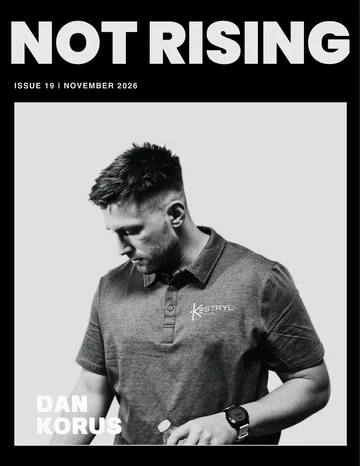
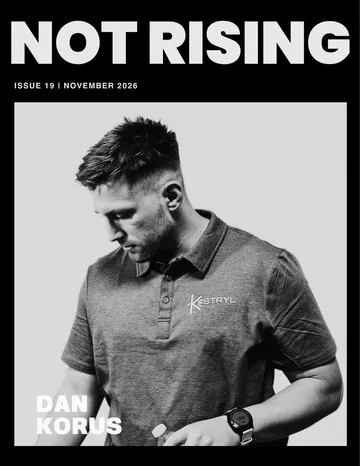
Newsstand: Issue 19 (Dan Korus) teaser flipbook + updated cover
Issue 19 now opens as a flipbook in Issue 01's format: an 11-page teaser ending on the Full digital issue release page (December 19, 2026) with Read the feature online linking to thisisnotrising.org/2026/11/08/dan-korus/. On Dec 19 the full 30-page issue opens by itself (?full proofs it early).

- assets/data.js: Dan's feature line gets its url and issue key (the coming-soon marquee comes off); ISSUES["dan-korus"] holds the magazine; IMAGES lists its nine pictures
- assets/img: new Issue 19 cover (+ rack thumbnail) and nine pictures from the feature's photos
- index.html, newsstand/index.html: data.js version tag bumped so browsers fetch the new file
- tools/issue19-images.py: how the pictures were cropped

Claude-Session: https://claude.ai/code/session_018yMsHoo7YjHd4jfcV23KKY

Changed region(s): [[0.0917, 0.2403, 0.9778, 0.9614]]

diff --git a/assets/data.js b/assets/data.js
@@ -54,7 +54,17 @@ window.NR = {
     coverPhoto01: "issue01-cover-photo.webp",
     tocPortrait01: "issue01-toc-portrait.webp",
     arch01: "issue01-arch.webp",
-    stage01: "issue01-stage.webp"
+    stage01: "issue01-stage.webp",
+    // Issue 19 · Dan Korus: his magazine's pictures (made from the feature's photos by tools/issue19-images.py)
+    portrait19: "issue19-portrait.webp",      // opener portrait
+    name19: "issue19-name.webp",              // name page (in colour, like Issue 01's)
+    tocDog19: "issue19-toc-dog.webp",         // contents page, small photos
+    tocRun19: "issue19-toc-run.webp",
+    tocLaugh19: "issue19-toc-laugh.webp",
+    camp19: "issue19-camp.webp",              // Q1 photo page (under 700 px wide on purpose: it sits framed, whole, on black)
+    couple19: "issue19-couple.webp",          // Q2 photo page
+    workshop19: "issue19-workshop.webp",      // Q4 photo page (stacked name + photo)
+    dog19: "issue19-dog.webp"                 // Q6 photo page
   },
 
   /* Tabs on the rack. A tab only appears once it holds an issue. */
@@ -127,10 +137,10 @@ window.NR = {
     { name: "Rebecca Wicker", date: "2026-09-27", url: "https://thisisnotrising.org/2026/09/27/thestrategiclinguist/", cover: "cover16" },
     { name: "Marlana", date: "2026-10-11", url: "https://thisisnotrising.org/2026/10/11/marlana/", cover: "cover17" },
     { name: "Pragya", date: "2026-10-25", url: "https://thisisnotrising.org/2026/10/25/pragya/", cover: "cover18" },
-    /* "soon" = this issue's own marquee text (one line per \n), used instead of the
-       automatic "Coming December 19". Add url: "..." once the feature is live.
-       read: false = no READ ONLINE button on its marquee (delete it once the feature is live). */
-    { name: "Dan Korus", date: "2026-11-08", cover: "cover19", soon: "Dan Korus : Issue 19\nArrives in one week", read: false }
+    /* A cover with no "issue" yet shows a "coming soon" marquee instead of a magazine. Its options:
+       soon: "..." = that marquee's own text (one line per \n), used instead of the automatic "Coming December 19";
+       read: false = no READ ONLINE button on it. Both can go once the magazine ("issue") is filled in. */
+    { name: "Dan Korus", date: "2026-11-08", url: "https://thisisnotrising.org/2026/11/08/dan-korus/", cover: "cover19", issue: "dan-korus" }
   ],
 
   /* One magazine per issue. Each question can pick its layout:
@@ -215,6 +225,150 @@ window.NR = {
       kind: "pages", title: "To Be Human · Holiday Special · Episode 1",
       pageDir: "tbh-holiday/", pageCount: 32, pageExt: "webp", back: "memoir02Back",
       insideFront: false, insideBack: false
+    },
+
+    /* Issue 19 · Dan Korus (Nov 7). Built exactly like Issue 01: same page templates, same 11-page preview.
+       Text from the feature on thisisnotrising.org (goes live Nov 8, 11:11 am); photos from the same post.
+       The preview ends on December 19, matching RELEASE_MONTH (Issue 19 -> December 19); on that day the
+       whole issue opens by itself. Add ?full to the Newsstand address to proof the whole issue before then. */
+    "dan-korus": {
+      number: 19, year: 2026,
+      preview: { pages: 11, until: "2026-12-19" },
+      name: "Dan Korus", publication: "The Updraft",
+      photoCredit: "Dan Korus",
+      nameRows: ["DAN", "KO", "RUS"],
+      portrait: "portrait19", namePhoto: "name19",
+      pullQuote: "“I want fewer people spending their evenings recovering from how they were treated at work.”",
+      toc: [
+        { q: 1, x: 67, y: 182, w: 205 },
+        { img: "tocRun19", x: 537, y: 229, w: 187, h: 156 },
+        { q: 5, x: 302, y: 293, w: 225 },
+        { img: "tocDog19", x: 67, y: 448, w: 173, h: 170 },
+        { q: 8, x: 533, y: 488, w: 200 },
+        { q: 7, x: 302, y: 628, w: 230 },
+        { q: 3, x: 67, y: 737, w: 210 },
+        { img: "tocLaugh19", x: 532, y: 780, w: 188, h: 111 }
+      ],
+      sections: [
+        { n: "1", q: "Tell us about you.",
+          contPull: "“The fastest way to give others permission to be themselves is to be outrageously yourself first.”", blocks: [
+          ["p", "I’m from Washington. The Pacific Northwest. Land of trees, strong coffee, and kinda-dirty smiling people in Birkenstocks who have opinions about the right way to compost."],
+          ["p", "My favorite childhood memories are from the mountains. I learned to love endurance sports through nordic ski racing on Mt. Spokane. On Friday nights we’d carpool up after school to train. No headlamps was the rule. We skied by the moon and stars."],
+          ["p", "I had a hard time reading growing up. I couldn’t sit still. Sports taught me more than the classroom ever did, and that’s still how I teach."],
+          ["p", "The mountains are still where I go to play. These days it’s trail running in the Jemez Mountains around my home in New Mexico. If you’ve seen my dorky attempts at filming leadership videos while running, you’ve seen some of my favorite places."],
+          ["p", "One of my first jobs was as a camp counselor. It’s still the most fun I’ve ever had at work."],
+          ["p", "I learned how to help kids get along, get a shy camper to open up, and defuse a fight so they could go back to being friends. I also got to be goofy. A muscular guy in a dress, being ridiculous and genuine, on purpose."],
+          ["p", "The fastest way to give others permission to be themselves is to be outrageously yourself first."],
+          ["p", "Teach ’em young: Know your emotions, take responsibility for how you act, and do cool shit for others."],
+          ["p", "We’d raid the candy store in silly costumes, serious as can be, then take our sugary haul to a field to stargaze and laugh. The next day, still in costume, we’d build massive floating wooden structures and set them on fire with flaming arrows."],
+          ["p", "Many of those campers became counselors themselves. They still write to me about the costumes, the candy raids, and the nights under the stars."],
+          ["p", "I know what leadership looks like. I learned it at summer camp."],
+          ["photoPage", "camp19"],
+          ["p", "I went on to earn my master’s in chemistry and work in startups and government. I met my best friend along the way and settled in New Mexico. Sunshine, green chile, and the beauty of the wide open."],
+          ["p", "Today I run Kestryl Edge, where I teach leadership and emotional intelligence to the people who run high consequence, mission-oriented teams. Places where how you treat people is an operational variable."],
+          ["p", "I’m a husband. A dog walker. A runner. A coach. A scientist. Someone with a good bit to say about leadership. And a camp counselor, still."]
+        ]},
+        { n: "2", q: "What drives you? What gives you energy?",
+          layout: "reading", pull: "“Things could be better, and therefore they shall.”", blocks: [
+          ["photoPage", "couple19", "02 · Rich in life", "“My wife. My dogs. My cat. I’m rich in life.”"],
+          ["p", "My unreasonably strong sense of justice."],
+          ["p", "Things could be better, and therefore they shall."],
+          ["p", "I lived the problem, then I saw the problem, and the fact that it still exists is reason enough."],
+          ["p", "What gives me energy is simpler. My wife. My dogs. My cat. I’m rich in life."],
+          ["p", "And when you already have everything money can’t buy, all that’s left is to make a difference for the people around you."]
+        ]},
+        { n: "3", q: "In one sentence, what are you trying to change?", layout: "statement", blocks: [
+          ["quote", "I want fewer people spending their evenings recovering from how they were treated at work."]
+        ]},
+        { n: "4", q: "What did you notice was broken that made you start writing?", layout: "band-bottom",
+          pull: "“We give people advice about managing their reactions to poor leadership while letting the people responsible carry on.”", blocks: [
+          ["photoPage", "workshop19", "", "", "stack"],
+          ["p", "“You should read The Four Agreements.”"],
+          ["p", "I had just shown a CEO the red lines I’d made in one of his emails. Threats underlined, rudeness circled. I told him I expected more respectful communication. His advice was that I read the book."],
+          ["p", "So I did. I asked him to read it with me. He didn’t."],
+          ["p", "At our next meeting, he turned the conversation into an early performance review. My feedback for the coming year: I needed to work on the second agreement. Don’t take anything personally."],
+          ["p", "Apparently the second agreement applied to me. The first one, be impeccable with your word, didn’t seem to apply to the CEO whose words I’d marked in red."],
+          ["p", "He had turned a lesson about personal accountability into a way to escape his own."],
+          ["p", "I knew enough to speak up. What I didn’t have was the practice or the confidence to hold that boundary with someone who had power over my job. I could tell him his behavior was unacceptable. Figuring out what to do when it continued was harder."],
+          ["p", "That’s the problem I keep coming back to in my writing."],
+          ["p", "We give people advice about managing their reactions to poor leadership while letting the people responsible carry on."],
+          ["p", "I want people to recognize what’s happening and have tools to respond. I also want leaders to be able to hear criticism without making someone regret speaking up."],
+          ["p", "I’m still learning how to do both."]
+        ]},
+        { n: "5", q: "If you could manifest a brighter tomorrow, what would change by 2030?",
+          layout: "callout", callout: "“Emotional Management 101 would be required, just like English 101.”", blocks: [
+          ["p", "By 2030, emotional intelligence would be taught at every level of education. Emotional Management 101 would be required, just like English 101."],
+          ["p", "Students would have an emotion wheel in their backpack alongside their physics equation sheet."],
+          ["p", "That education would show up outside the classroom."],
+          ["p", "High schoolers able to express their feelings. Parents able to listen without immediately jumping in to correct them."],
+          ["p", "Healthier adult relationships. Workplaces with healthy candor. People who understand their values well enough to know when they need to set a boundary."],
+          ["p", "At work, basic EQ skills would be part of onboarding. Managers would lead the way, setting the bar for what it means to listen and put people first."],
+          ["p", "I’d love for Kestryl Edge to partner with schools and universities to help build that curriculum. Teach people how to recognize what they’re feeling, work through disagreements, and take responsibility when they hurt someone."],
+          ["p", "I’d be proud to have a hand in what the next generation learns about treating people well."]
+        ]},
+        { n: "6", q: "How would your closest friends describe you?",
+          layout: "quotes", bandTop: 520,
+          contPull: "“You’re a Belgian Malinois in a human body.”", blocks: [
+          ["p", "I love my friends. I have good ones. Here’s what they sent me:"],
+          ["break"],
+          ["fq", "Daniel is one of the most compassionate people I know. Talking with him is like chatting over a fire late into the night until the embers go out. He has a listening ear and wants to hear every aspect of every story just so he can be as empathetic and understanding as possible. He strives to put others before himself but does not forget who he is in the process. He’s independent and head strong but careful to not harm anyone in his wake. Daniel is someone I envision walking with me through life as a friend, colleague, and mentor.” – Jay"],
+          ["fq", "Dan is one of those people who just gets shit done. He has the vision, but more importantly the discipline and drive to execute, whether it’s starting a business or running an ultramarathon. Not everyone can see the value in the struggle, and even fewer willingly take them on. Dan not only launches into challenges face first, but knows how to have fun when they punch back.” – Mason"],
+          ["fq", "Dan is the most ride-or-die type person I know. I admire the certainty and ferocity with which he approaches his life, and which is evident in his accomplishments and relationships big and small. In all things Dan does, there is this beautiful connecting thread which is his thoughtfulness, intentionality, and desire to do good by his people.” – Emily"],
+          ["fq", "Dan is the most genuinely charismatic person I have ever met. And ‘genuine’ is important in this context, because his charisma, which some people use for their own gain, comes from a place of kindness, warmth, and genuine care for other people. You could be a grocery store clerk, a stranger on the street, or a friend going through a rough patch, and Dan will genuinely want to know how you’re doing. He’ll listen, truly listen, and somehow find the right way to support you, uplift you, or make you laugh. It goes beyond Dan being someone who can make friends with anyone; he has the rare ability to turn those encounters into meaningful connections.” – Nick"],
+          ["fq", "Dan Korus holds every aspect of his life to the highest standard — his performance, his relationships, the quality of his leisure time — and somehow still makes the unrelenting pursuit of excellence a fun time. Every time I talk to him I feel like I just dunked my head in spring water, and remember why he’s been one of my closest friends for many years despite the many miles between us.” – Phil"],
+          ["fq", "You’re a Belgian Malinois in a human body.” – Anna"],
+          ["photoPage", "dog19", "", ""]
+        ]},
+        { n: "7", q: "What’s a challenge that changed how you see the world?", layout: "band-top",
+          pull: "“Surviving was hard. Leaving was harder.”", blocks: [
+          ["p", "Working in a toxic environment."],
+          ["p", "At a startup, years ago, I watched people get frustrated and leave the company, their research, and a dream they’d once believed in."],
+          ["p", "I went to a dark place. I was drinking every night. One to calm down enough to cook and clean. Another to relax and enjoy time with my partner. Sometimes more to sleep without rehearsing defenses and retorts in my head."],
+          ["p", "Any conversation about work became a conversation about how fucked up my day job was. Get a few coworkers together and we’d end up in the same place."],
+          ["p", "Then I’d see friends a few months after they’d left. They’d found new jobs, and it was scary how much happier they looked. They seemed to be living so much more of their lives. I wanted that."],
+          ["p", "But when you’re burned out and everything at work is telling you that you’re not enough, how do you find the energy to look for another job? How do you convince yourself you have something worth offering?"],
+          ["p", "I’d learned how to get through the day where I was. I worried the next place could be just as bad."],
+          ["p", "Surviving was hard. Leaving was harder."],
+          ["p", "What I came to understand was how much a workplace can shrink what you believe is possible for yourself. You can recognize that something is wrong and still struggle to act on it. Finding a way out takes energy and confidence that the job itself may have worn down."],
+          ["p", "That changed how I understand people who stay. Knowing they deserve better doesn’t mean they can see how to get there."],
+          ["p", "I want people to have more options and more power over what happens next. Something beyond finding another way to get through the day."],
+          ["p", "That’s what the free essays and the podcast are for. And for the teams that want to go further, that’s what the workshops and coaching at Kestryl Edge are built to do."]
+        ]},
+        { n: "8", q: "What are you most proud of right now?",
+          layout: "callout", callout: "“Leadership is inviting others to greatness and accepting your own invitation first.”", blocks: [
+          ["p", "I’m proud that people can learn from us without a budget for coaching."],
+          ["p", "We’re building a library of free resources. And the teams and individuals who hire us for workshops and coaching are what make the free stuff possible."],
+          ["p", "I also just really like what we teach."],
+          ["p", "We have run a virtual workshop where I was the only attendee. Tessa, lead facilitator, is teaching, and the two of us are sitting there talking about what we value and why it matters to us. No one was there to witness it."],
+          ["p", "“Okay Dan, what values are we working on here?”"],
+          ["p", "“I’m working on how to be more kind when I’m frustrated.”"],
+          ["p", "We’re doing the work we ask others to do. I’m taking notes. Learning. Laughing."],
+          ["p", "I will never ask someone to do something I’m not already working hard on myself."],
+          ["p", "Leadership is inviting others to greatness and accepting your own invitation first."],
+          ["p", "There’s something satisfying about helping build a workshop and then discovering how much you still have to learn from it. Watching teams grow closer as they work through the material together is a big part of why I love this."],
+          ["p", "It rocks. It rocks hard."]
+        ]},
+        { n: "9", q: "On hard days, what kind of signal from your readers keeps you going?", layout: "band-bottom",
+          pull: "“My writing is me. My company is the manifestation of what I want to bring to the world.”", blocks: [
+          ["p", "When someone I’ve never pitched writes to tell me they learned something."],
+          ["p", "It’s easy to feel invisible."],
+          ["p", "A ‘like’ costs nothing. An email costs something. Somebody had to stop, think about what they read, and decide to reach out."],
+          ["p", "My writing is me. My company is the manifestation of what I want to bring to the world."],
+          ["p", "And when a stranger says it helped them handle a hard conversation with a peer, or finally set a boundary they’d been avoiding, that’s the whole reason I do this."]
+        ]},
+        { n: "10", q: "What article would you want your new readers to read first?", layout: "reading",
+          pull: "“Reach out. Say hi. Let’s chat.”", blocks: [
+          ["p", "“The Leadership Field Has A Bullshit Problem.”"],
+          ["p", "Then to my inbox. Reach out. Say hi. Let’s chat."],
+          ["p", "Every week I record a new Kestryl Edge podcast and sit down with someone who’s thought hard about how we treat people at work."],
+          ["p", "And if you run a team and want to do this work together, that’s kestryledge.com."]
+        ]},
+        { n: "+", q: "Bonus Q: If you could recommend another writer to be featured on Not Rising, who would it be and why?", layout: "callout",
+          feature: { label: "Dan recommends", name: "Sven Brodmerkel" }, blocks: [
+          ["p", "Sven Brodmerkel."],
+          ["p", "I have a school boy crush on him. Awesome writer. So gifted with words. I get smarter reading Sven."]
+        ]}
+      ]
     },
 
     "jennifer-houle": {

diff --git a/newsstand/index.html b/newsstand/index.html
@@ -114,7 +114,7 @@ html.from-light body::after { content: ""; position: fixed; inset: 0; z-index: 2
 
 <!-- Where the pictures live, then the data, the page-flip library, and the engine -->
 <script>window.NRNS_BASE = "../assets/img/";</script>
-<script src="../assets/data.js?v=2026-11-07"></script>
+<script src="../assets/data.js?v=2026-11-07b"></script>
 <script src="../assets/vendor/page-flip.browser.js"></script>
 <script src="../assets/newsstand.js?v=2026-11-07"></script>
 </body>

diff --git a/index.html b/index.html
@@ -103,7 +103,7 @@ img { max-width: 100%; }
      uses it (for the wood grain), and a stylesheet reads short addresses
      from its own folder, not from this page. -->
 <script>window.NRSF_BASE = new URL("assets/img/", location.href).href; window.NRNS_BASE = "assets/img/";</script>
-<script src="assets/data.js?v=20261107"></script>
+<script src="assets/data.js?v=20261107b"></script>
 <script src="assets/storefront.js"></script>
 </body>
 </html>

diff --git a/tools/issue19-images.py b/tools/issue19-images.py
@@ -1,0 +1,57 @@
+# Issue 19 (Dan Korus): every picture the flipbook needs, made from the article's photos and the new cover.
+# Same recipe as Issue 1: the name page photo stays in colour, every other photo is black and white.
+# usage: python3 tools/issue19-images.py PHOTOS_DIR COVER_FILE assets/img
+#   PHOTOS_DIR holds the feature's six photos, in article order, saved as
+#   p1-sunset.png, p2-camp.png, p3-couple.png, p4-workshop.png, p5-headshot.png, p6-dog.png
+#   COVER_FILE is the Canva cover export. The crop boxes below are (left, top, right, bottom) in each photo's pixels.
+# (The engine greys every inside photo anyway, with one CSS line; the black and white here adds a little contrast.)
+import sys, os
+from PIL import Image, ImageOps, ImageEnhance
+
+photos, cover_file, out = sys.argv[1], sys.argv[2], sys.argv[3]
+os.makedirs(os.path.join(out, "thumbs"), exist_ok=True)
+
+def bw(im, contrast=1.12):
+    """Black and white with a little extra contrast, like Issue 1's photos."""
+    g = ImageOps.grayscale(im)
+    g = ImageOps.autocontrast(g, cutoff=0.5)
+    return ImageEnhance.Contrast(g).enhance(contrast).convert("RGB")
+
+def save(im, name, q=80, width=None):
+    if width and im.width > width:
+        im = im.resize((width, round(im.height * width / im.width)), Image.LANCZOS)
+    path = os.path.join(out, name)
+    im.save(path, "WEBP", quality=q, method=6)
+    print(f"{name:32s} {im.size[0]}x{im.size[1]}  {os.path.getsize(path)//1024} KB")
+
+P = lambda f: Image.open(os.path.join(photos, f)).convert("RGB")
+sunset, camp, couple, workshop, headshot, dog = (P(f) for f in
+    ["p1-sunset.png", "p2-camp.png", "p3-couple.png", "p4-workshop.png", "p5-headshot.png", "p6-dog.png"])
+
+# COVER: the new cover, same size as every other cover (1000 wide), plus the small copy for the rack
+cover = Image.open(cover_file).convert("RGB")
+cover = cover.resize((1000, round(cover.height * 1000 / cover.width)), Image.LANCZOS)
+save(cover, "issue19-cover.webp", q=82)
+save(cover, "thumbs/issue19-cover.webp", q=80, width=360)
+
+# NAME PAGE (345 x 743 slot, tall): the sunset run, in colour, cropped tall around the runner
+save(sunset.crop((292, 0, 767, 1023)), "issue19-name.webp", q=80)
+
+# OPENER PORTRAIT (316 x 416 slot): the headshot
+save(bw(headshot.crop((52, 0, 769, 944))), "issue19-portrait.webp", q=80)
+
+# CONTENTS PAGE thumbnails, cut to their slots' shapes
+save(bw(dog.crop((50, 330, 710, 990))), "issue19-toc-dog.webp", q=78, width=360)           # 173 x 170 slot
+save(bw(sunset.crop((300, 220, 900, 720))), "issue19-toc-run.webp", q=78, width=380)       # 187 x 156 slot
+save(bw(workshop.crop((600, 180, 1200, 535))), "issue19-toc-laugh.webp", q=78, width=380)  # 188 x 111 slot
+
+# PHOTO PAGES
+# Q1, the camp photo: saved under 700 px wide on purpose, so the engine frames it whole on a black page
+# (photos 700 px and wider bleed edge to edge and would lose the kids at each end).
+save(bw(camp, 1.05), "issue19-camp.webp", q=80, width=699)
+# Q2, Dan and his wife: a full-bleed page (816 x 840 slot), cropped to that shape from the top
+save(bw(couple.crop((0, 30, 840, 895))), "issue19-couple.webp", q=80)
+# Q4, the workshop: the "stack" page (Dan's stacked name + the whole photo, 500 wide)
+save(bw(workshop), "issue19-workshop.webp", q=80, width=1000)
+# Q6, Dan and the pup: full-bleed page, cropped to the slot's shape around face and dog
+save(bw(dog.crop((0, 230, 768, 1021))), "issue19-dog.webp", q=80)
